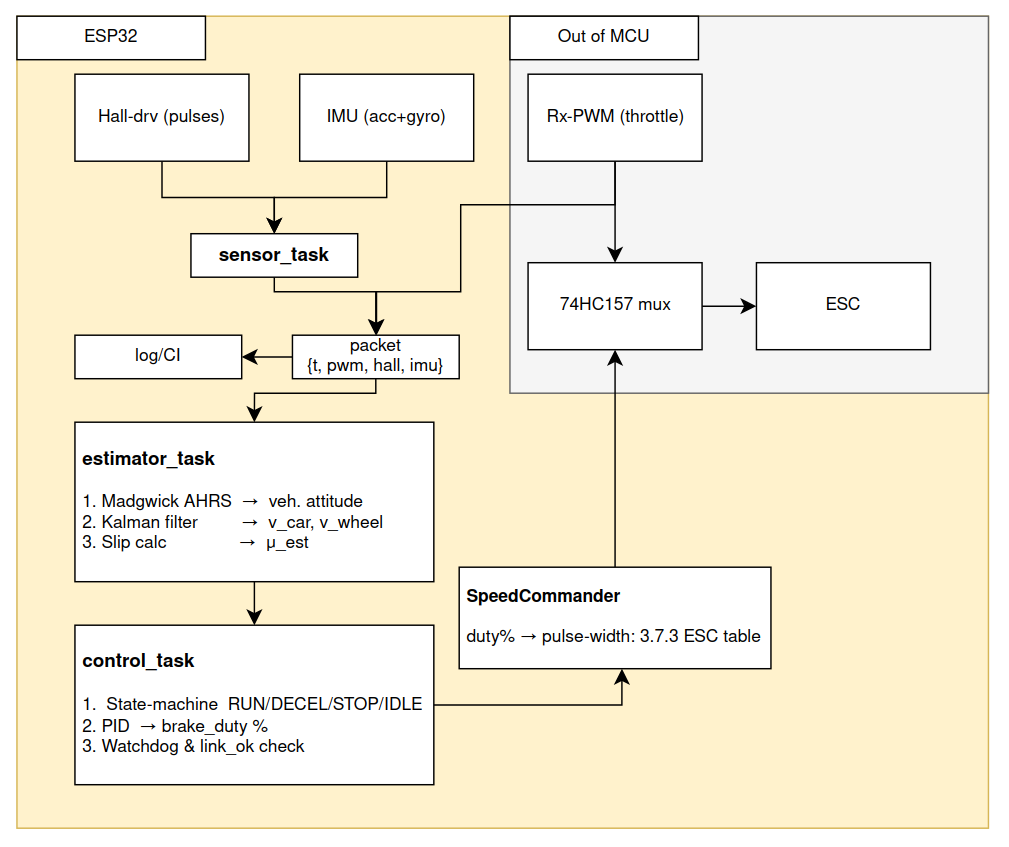
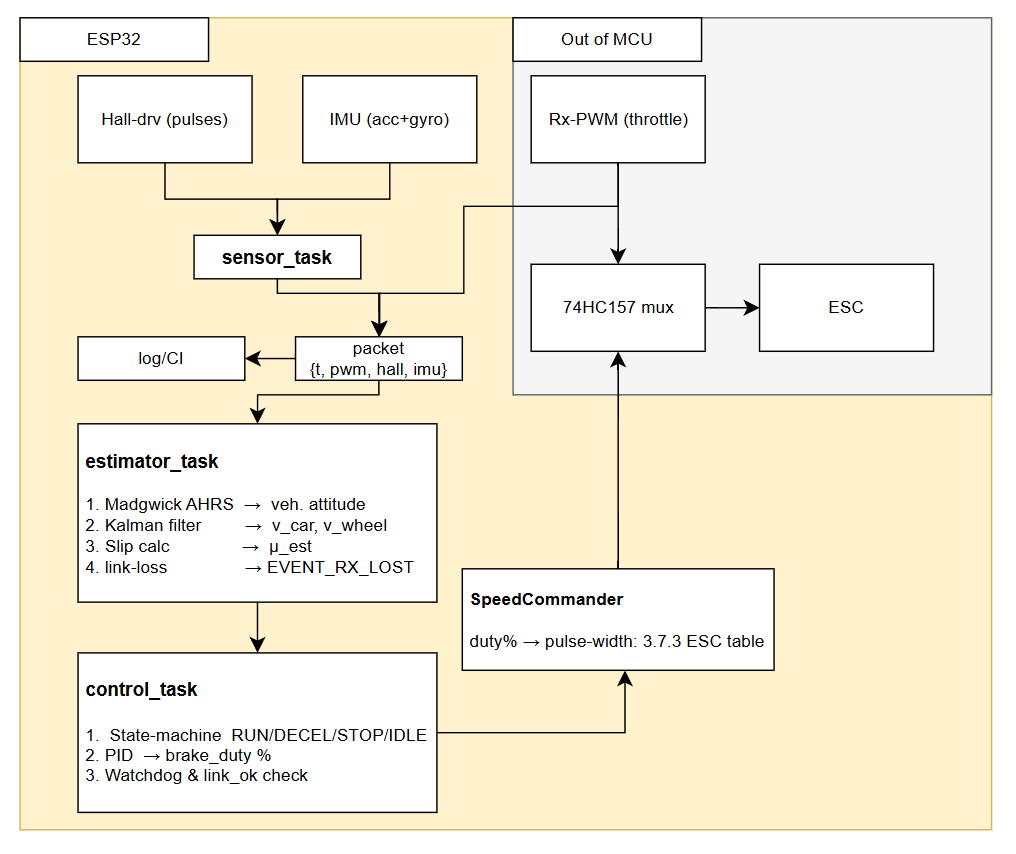
Fixed English

diff --git a/learning journey/Sys-Eng_part_1.md b/learning journey/Sys-Eng_part_1.md
@@ -5,15 +5,15 @@ date: "22-05-2025"
 
 # Practice Project for Systems Engineering - Part 1
 
-> **Mission (draft)** – *Enable a 1/14-scale WLtoys 144001 to stop safely and stream FPV with < 120 ms latency, using hobby-grade parts and a sub-\$60 electronics stack.*
-
-Imagine you’re at your local RC-club race. Your RC buggy rockets down the straight and **snap**, the radio link dies.  
+Imagine you’re at your local RC club race. Your RC buggy rockets down the straight and **snap**, the radio link dies.  
 No brakes, no hope. Or you’re threading hair-pins, but the video feed lags so badly you might as well be driving blindfolded.
 
-That nightmare is the frustration this projects sets out to erase.  
+That nightmare is the frustration this project sets out to erase.
+>*“I want my WLtoys buggy to brake by itself if the radio dies,and I want live video that isn’t a slideshow—all for pocket money.”* 
 This post captures the **front-end thinking**, mission framing, requirements, trade studies, and a first-cut architecture, *before a single line of firmware is written*. 
 
-DISCLAIMER: I haven't done extensive testing for the hardware pieces includes in the project. Since this is an exercise, I "trusted" gpt o3 with the estimates for the latencies and such. Were I plannig to carry on with this project. A whole verification and validation process would need to be done for those parts.
+> DISCLAIMER: I haven't done extensive testing for the hardware pieces included in the project. Since this is an exercise, I "trusted" GPT o3 with the estimates for the latencies and such. If I were planning to carry on with this project, a whole verification and validation process would need to be done for those parts.
+
 
 ---
 
@@ -21,7 +21,7 @@ DISCLAIMER: I haven't done extensive testing for the hardware pieces includes in
 
 > **Why this section exists** We open with a crystal-clear finish line. Numbers first; the figures anchor every future argument.
 
-**TARGET PERFORMANCE - *Not Yet Achieved***  
+**TARGET PERFORMANCE** 
 
 * Braking 30 km h⁻¹ → 0 in ≤ 1.2 m  
 * 30 fps FPV with ≤ 120 ms glass-to-glass latency  
@@ -33,7 +33,7 @@ Whenever we debate a design choice, we drag it back to this bullet list and ask:
 
 ---
 
-## 2  From Idea to One-Sentence Mission  
+## 2  From Idea to Mission Definition
 
 Before solder smoke and Git commits, systems engineering forces us to tame the foggy idea.  
 We interrogate the concept with three questions: **who hurts, how do they hurt, what single outcome removes the pain?**
@@ -44,8 +44,15 @@ We interrogate the concept with three questions: **who hurts, how do they hurt, 
 | **Need extraction**      | What hurts?  | Long braking, risk of runaway, laggy or dropped FPV.       |
 | **Mission wording**      | Outcome?     | “Stop safely and stream low-latency video with hobby parts.”|
 
-The table may look trivial, but it took three sticky-note sessions to collapse sprawling wish-lists into a **single declarative sentence**.  
-That sentence now acts as a gatekeeper: any feature that cannot prove it helps *stop* or *stream* is postponed or killed.
+The table may look trivial, but it took three sticky-note sessions to collapse sprawling wish-lists into defined mission points with a  **single declarative sentence**.
+
+>**Mission M.1 — Braking Safety**  
+*Bring the buggy from 30 km h⁻¹ to a full stop in ≤ 1.2 m, or within 100 ms of radio loss, without wheel lock-up.*  
+
+>**Mission M.2 — Low-Latency Situational Awareness**  
+*Provide a forward-facing FPV stream with ≤ 120 ms glass-to-glass latency, using hobby-grade parts and keeping the extra electronics under $ 60.*  
+
+Those two missions become the filters for every requirement that follows.
 
 ---
 
@@ -63,8 +70,8 @@ Stakeholder Needs  →  System Req  →  High-Level Design  →  Detailed Design
 
 ```
 
-*Left side*: we slide **downwards**, refining fuzzy pains (long braking, laggy FPV) into the SMART “shall” statements you’ll meet in Section 3, then into the architecture snapshot of Section 5.  
-*Right side*: we climb **upwards**, using the Verification Matrix (Section 7) to prove—unit by unit, then subsystem by subsystem—that the real buggy matches those early promises. 
+*Left side* → we slide **downwards**, refining fuzzy pains (long braking, laggy FPV) into the SMART “shall” statements you’ll meet in Section 3, then into the architecture snapshot of Section 5.  
+*Right side* → we climb **upwards**, using the Verification Matrix (Section 7) to prove—unit by unit, then subsystem by subsystem—that the real buggy matches those early promises. 
 
 | V-Step                   | This-post Artefact                         |
 |--------------------------|-------------------------------------------|
@@ -86,8 +93,9 @@ That symmetry is the mental model you’ll spot in every later decision.
 > **How this table was born** We ran a ruthless word-workout: every “should” became a “shall”, every vague adjective gained a number, every number gained a **kitchen-table test**.
 
 | ID   | “Shall” Statement (measurable)                                            | Planned Verification            |
-|------|---------------------------------------------------------------------------|---------------------------------|
-| **FR-1** | Detect Rx PWM loss > 120 ms **and** drive ESC to full brake ≤ 100 ms. | Logic-analyser script.          |
+|---------|---------------------------------------------------------------------------|---------------------------------|
+| **FR-1a** | Detect Rx PWM loss > 120 ms | Logic-analyser script.          |
+| **FR-1b** | Drive the ESC to a ≥ 100 % brake pulse within ≤ 100 ms of FR-1a firing. | Logic-analyser + scope.          |
 | **FR-2** | Rear-wheel ABS reduces 30 km h⁻¹ stop distance to **≤ 1.2 m**.        | Tape-measure & high-speed cam.  |
 | **FR-3** | Analogue FPV latency **≤ 20 ms** (95 %-ile).                          | IR-LED scope rig.               |
 | **FR-4** | MJPEG Wi-Fi stream ≥ 30 fps, latency **≤ 120 ms**.                    | LED-flash latency rig.          |
@@ -132,7 +140,7 @@ Notice how latency and cost killed several shinier options.
 
 Reading the diagram:
   1. User Tx → 2.4 GHz Rx The hand-held transmitter delivers throttle/brake PWM. The 74HC157 mux defaults to this lane if the ESP32 watchdog stops toggling.
-  If that link goes silent for more than 120 ms, FR-1’s failsafe slams the brakes.
+  If that link goes silent for more than 120 ms, FR-1a’s failsafe slams the brakes.
   2. Sensing ingests both vehicle data (wheel Hall count, IMU) and the human command from the Rx, time-stamping everything at 100 Hz.
   3. Estimation fuses sensor cues, computes slip, and forwards a clean state vector to Control.
   4. Control blends the user’s throttle intent with ABS logic and watchdogs; the output is a shaped PWM duty that Actuation feeds to the ESC via the mux’s second lane.
@@ -176,7 +184,8 @@ Take-away: the system tolerates Wi-Fi jitter because the *race-critical* feed is
 
 | Req  | Tool             | Pass Criterion     |
 |------|------------------|--------------------|
-| FR-1 | Logic-analyser   | ≤ 100 ms           |
+| FR-1a | Logic-analyser   | ≤ 120 ms gap          |
+| FR-1b | Logic-analyser   | ≤ 100 ms to 1.30 ms pulse           |
 | FR-2 | High-speed video | ≤ 1.2 m            |
 | FR-3 | IR scope rig     | ≤ 20 ms (95 %)     |
 | FR-4 | LED latency rig  | ≤ 120 ms           |
@@ -189,7 +198,7 @@ Spend ten minutes sketching each rig now; save ten days of “why is it slow?”
 
 ### Ready for the Right-Hand Side?
 
-Everything above cements the *why* and the *what* of SmartDrive-XR.
+Everything above cements the *why* and the *what* of this project.
 But diagrams don’t stop runaway cars—firmware, task graphs, and PCB traces do.
 In **Part 2** we pivot from “paper promises” to “design you can compile”:
 

diff --git a/learning journey/Sys-Eng_part_2.md b/learning journey/Sys-Eng_part_2.md
@@ -24,7 +24,8 @@ Part 2 begins the climb up the right-hand side. Here the abstractions acquire vo
 By the end of this part you’ll have the full bill-of-materials, a layered codebase skeleton, and concrete verification hooks—all ready for the soldering iron. If Part 1 was the blueprint, Part 2 is the build manual. Let’s zoom in.
 
 
-DISCLAIMER: I haven't done extensive testing for the hardware pieces includes in the project. Since this is an exercise, I "trusted" gpt o3 with the estimates for the latencies and such. Were I plannig to carry on with this project. A whole verification and validation process would need to be done for those parts.
+DISCLAIMER: I haven't done extensive testing for the hardware pieces included in the project. Since this is an exercise, I "trusted" GPT o3 with the estimates for the latencies and such. If I were planning to carry on with this project, a whole verification and validation process would need to be done for those parts.
+
 
 ---
 
@@ -45,11 +46,12 @@ DISCLAIMER: I haven't done extensive testing for the hardware pieces includes in
 
 > In classical control parlance this is a *sense → estimate → decide → act* pipeline. The feedback loop closes every 10 ms, giving the controller five fresh opportunities to intervene during the 25 ms it takes the car to travel 20 cm at 30 km h⁻¹.
 
+
 | Block      | Prime SMART reqs |
 | ---------- | ---------------- |
 | Sensing    | FR-4             |
-| Estimation | FR-2             |
-| Control    | FR-1, FR-2       |
+| Estimation | FR-1a, FR-2             |
+| Control    | FR-1b, FR-2       |
 | Telemetry  | FR-3, FR-4       |
 
 Anything that cannot be traced forward to a requirement,or backward to a verification step,gets chopped as scope-creep.
@@ -57,7 +59,7 @@ Anything that cannot be traced forward to a requirement,or backward to a verific
 ---
 
 ## 2 Physical Architecture - *What the System Is*
-As with other part of the series, selecting certain parts as the MCE, ESC, Servos and so on, need to be carefully considered. Here, I'm "trusting" the LLM (GPT o3) to select for me, but if I were to build the system, I would refine this part in detail.
+As with other parts of the series, selecting certain parts, such as the MCU, ESC, Servos, etc., must be carefully considered. Here, I'm "trusting" the LLM (GPT o3) to select for me, but if I were to build the system, I would refine this part in detail.
 
 | Sub-assembly          | Main parts & interfaces                                                                     | Power domain |
 |-----------------------|---------------------------------------------------------------------------------------------|--------------|
@@ -141,8 +143,8 @@ As with other part of the series, selecting certain parts as the MCE, ESC, Servo
 | Task (core)          | Period | Stack | Prio | Role                                               |
 |----------------------|--------|-------|------|----------------------------------------------------|
 | `sensor_task` (1)    | 10 ms  | 4 kB  | 15   | IMU + Hall → `STATE_RAW`                           |
-| `estimator_task`     | 10 ms  | 6 kB  | 18   | Madgwick+Kalman → `VehicleState`                   |
-| `control_task`       | 10 ms  | 4 kB  | 20   | ABS PID → `BrakeCommand`                           |
+| `estimator_task`     | 10 ms  | 6 kB  | 18   |Madgwick + Kalman + link-loss timer → `VehicleState`                  |
+| `control_task`       | 10 ms  | 4 kB  | 20   | ABS PID (+ FailsafeManager) → `BrakeCommand`                           |
 | `mux_feed_task` (1)  | 2 ms   | 1 kB  | 22   | Toggle GPIO watchdog for 74HC157                   |
 | `actuator_task`      | 10 ms  | 3 kB  | 21   | ESC PWM, safety heartbeat check                    |
 | `cam_task` (0)       | 33 ms  | 8 kB  | 10   | DMA frame → PSRAM                                  |
@@ -281,7 +283,7 @@ Firmware constants:
 #define ESC_BRAKE_MAX_US 1300   // never go lower
 ```
 
-`SpeedCommander` linearly interpolates between those limits; the **pwm\_mux\_driver** toggles its GPIO at 2 kHz. If the MCU crashes, the RC filter on the mux select pin discharges in ≈ 25 ms and hardware flips back to the radio lane—meeting FR-1 even with dead firmware.
+`SpeedCommander` linearly interpolates between those limits; the **pwm\_mux\_driver** toggles its GPIO at 2 kHz. If the MCU crashes, the RC filter on the mux select pin discharges in ≈ 25 ms and hardware flips back to the radio lane—meeting FR-1b even with dead firmware.
 
 ---
 
@@ -298,7 +300,7 @@ Firmware constants:
 
 | Hook                             | What it proves                                        |
 | -------------------------------- | ----------------------------------------------------- |
-| **Logic-analyser** on mux output | Pulse drops to 1.30 ms ≤ 100 ms after Rx loss (FR-1). |
+| **Logic-analyser** on mux output | Pulse drops to 1.30 ms ≤ 100 ms after Rx loss (FR-1b).|
 | **High-speed video** + tape      | 30 km h⁻¹ → 0 in ≤ 1.2 m (FR-2).                      |
 | **Replay harness**               | Deterministic stop distance on log playback.          |
 
@@ -326,16 +328,16 @@ So you get laboratory-friendly Wi-Fi plus race-worthy analogue,each with its own
 
 ## 4  End-to-End Traceability - Kitchen-Table Proof
 
-| Req  | Functional blk | Physical element        | Software module           | Verification hook                |
-| ---- | -------------- | ----------------------- | ------------------------- | -------------------------------- |
-| FR-1 | Control        | **74HC157 mux + QuicRun ESC**            | `control_task`, `mux_feed_task`            | Logic-analyser script + watchdog scope           |
-| FR-2 | Control/Sense  | Hall + IMU              | `estimator_task`, `PID`   | High-speed video + pandas script |
-| FR-3 | Telemetry      | OV2640 + Wi-Fi streamer | `cam_task`, `stream_task` | LED latency rig                  |
-| FR-4 | Telemetry      | SD card                 | `csv_logger`              | pandas integrity check           |
-| FR-5 | Telemetry      | **WildFire VTx**        | `fpv_monitor`, `osd_task` | IR scope rig (latency)           |
-| CO-1 | BOM            | All parts               | `tools/bom.xlsx`          | CI budget line                   |
+| Req       | Functional blk  | Physical element(s)                   | Software module(s)                 | Verification hook                                   |
+| --------- | --------------- | ------------------------------------- | ---------------------------------- | --------------------------------------------------- |
+| **FR-1a** | **Estimation**  | ELRS Rx PWM line <br> + timer counter | `estimator_task` (`LinkLossTimer`) | Logic-analyser: > 120 ms gap raises `EVENT_RX_LOST` |
+| **FR-1b** | **Control**     | 74HC157 mux (sel GPIO) + QuicRun ESC  | `control_task`, `mux_feed_task`    | Scope: pulse hits 1.30 ms ≤ 100 ms after FR-1a      |
+| **FR-2**  | Control / Sense | Hall sensor + BMI270 IMU              | `estimator_task`, `PID`            | Hi-speed video + pandas stop-distance script        |
+| **FR-3**  | Telemetry       | OV2640 cam + ESP32 Wi-Fi              | `cam_task`, `stream_task`          | LED-flash latency rig                               |
+| **FR-4**  | Telemetry       | SD-card logger                        | `csv_logger`                       | pandas integrity check                              |
+| **FR-5**  | Telemetry       | WildFire Nano VTx                     | `fpv_monitor`, `osd_task`          | IR-scope: analogue latency                          |
+| **CO-1**  | BOM             | All parts                             | `tools/bom.xlsx`                   | CI budget line                                      |
 
----
 
 ## 5  Risks & Mitigations Snapshot
 

diff --git a/learning journey/Sys-Eng_part_0.md b/learning journey/Sys-Eng_part_0.md
@@ -6,7 +6,9 @@ date: "22-05-2025"
 
 *A Prelude to the Mini-Series*
 
-The pages that follow are not a build log, at least not yet.  They are, first and foremost, a structured exercise in **applied systems engineering**.  Fresh from an intensive AIAA course on space-grade SE practice, I wanted a sandbox that was small enough to tackle after work yet rich enough to showcase every rung of the “V”.  A 1/14-scale WLtoys buggy, a \$10 ESP32 module, and the perennial headaches of RC racing (run-away cars, video lag) fit that bill perfectly.
+The pages that follow are not a build log, at least not yet.  They are, first and foremost, a structured exercise in **applied systems engineering**.  Fresh from an intensive AIAA course on space-grade SE practice, I wanted a sandbox that was small enough to tackle after work yet rich enough to showcase every rung of the [“V” model](https://en.wikipedia.org/wiki/V-model).
+
+A 1/14-scale WLtoys buggy, a \$10 ESP32 module, and the perennial headaches of RC racing (run-away cars, video lag) fit that bill perfectly.
 
 <figure style="text-align:center;">
   <!-- direct link to the raw file on Wikimedia's upload server -->
@@ -14,18 +16,20 @@ The pages that follow are not a build log, at least not yet.  They are, first an
        alt="V-model illustrating decomposition on the left and verification on the right"
        style="max-width:100%;height:auto;display:block;margin:0 auto;">
   <figcaption style="font-style:italic;">
-    The V-model that underpins SmartDrive-XR’s methodology.  
+    The V-model that underpins this system methodology.  
     (Public-domain image, U.S. Government source via Wikimedia Commons.)
   </figcaption>
 </figure>
 <br>
 
 ### What the V-model actually shows
-The V-model is a visual shorthand for disciplined, top-down system development followed by bottom-up proof. On the left-hand leg you start with fuzzy stakeholder pains, sharpen them into measurable system requirements, and then decompose those requirements through progressively finer architectural layers until you reach code or hardware drawings. The bottom point (unit implementation) is where abstraction is lowest and component isolation is highest. The right-hand leg then climbs back upward, but in reverse order: unit tests prove each block, component integration proves every interface, and finally system‐level validation proves that the finished artefact solves the original pain.
+The V-model is a visual shorthand for disciplined, top-down system development followed by bottom-up proof. On the left-hand leg you start with fuzzy stakeholder pains, sharpen them into measurable system requirements, and then decompose those requirements through progressively finer architectural layers until you reach code or hardware drawings. 
+
+The bottom point (unit implementation) is where abstraction is lowest and component isolation is highest. The right-hand leg then climbs back upward, but in reverse order: unit tests prove each block, component integration proves every interface, and finally system‐level validation proves that the finished artefact solves the original pain.
 
 Two principles make the diagram more than just a pretty shape:
-  1. Bidirectional traceability – every artefact on the left must have a matching verification artefact on the right.
-  2. ly test planning – you design test hooks at the same time you design functions, not as an after-thought.
+  1. Bidirectional traceability - every artefact on the left must have a matching verification artefact on the right.
+  2. Early test planning - you design test hooks at the same time you design functions, not as an after-thought.
 
 Because of those principles, teams can localise defects, predict schedules, and justify design trade-offs with cold data instead of hope.
 
@@ -33,7 +37,7 @@ Because of those principles, teams can localise defects, predict schedules, and 
 
 **Part 2** pivots to design: a tri-view architecture (functional, physical, software) that shows, line-by-line, how each requirement is realised and how every design choice earns its keep.  You will see control loops mapped to tasks, latency budgets split across hops, and even a “budget” analogue FPV link added when risk analysis exposed Wi-Fi’s soft underbelly.  In short, **Part 2 is the climb up the *right-hand* side of the V, still on paper but already instrumented for proof**.
 
-Will there be a Part 3 with hardware photos and skid-marks on the parking lot?  Not sooo, I make no promise.  Another project already competes for bench time. For now, treat this series as a reference walk-through: a compact, end-to-end example of modern systems-engineering discipline that you can mirror, critique, or extend in your own hobby and professional work.
+Will there be a Part 3 with hardware photos and skid-marks on the parking lot?  Not soon, I make no promise.  Another project already competes for bench time. For now, treat this series as a reference walk-through.
 
 *© 2025 Victor Retamal - Project Notes.*
 

diff --git a/learning journey/introduction.md b/learning journey/introduction.md
@@ -1,6 +1,7 @@
 ---
 title: "Intro: Diving Into Open-Source Courses"
 date: "27-03-2025"
+sort: 1
 ---
 # Intro: Diving Into Open-Source Courses
 
@@ -14,7 +15,7 @@ I'm not officially enrolled in any university program at the moment, but I truly
 
 - **[CMU 16-745: Optimal Control and Reinforcement Learning](https://optimalcontrol.ri.cmu.edu/)**: Digging into the latest in reinforcement learning, figuring out how intelligent systems make smart decisions in complex situations.
 
-- **[Applied Space System Engineering](https://aiaa.mycrowdwisdom.com/diweb/catalog/item?id=17366964)**: Soon, I'll start this course as part of my work-related learning journey. Hopefully, I will discover how a system engineering is done in such a demanding industry as space industry. Disclaimer, this is not open source, but still a cool/practical course to take.
+- **[Applied Space System Engineering](https://aiaa.mycrowdwisdom.com/diweb/catalog/item?id=17366964)**: I'll soon start this course as part of my work-related learning journey. Hopefully, I will discover how system engineering is done in such a demanding industry as the space industry. Disclaimer: This is not open source, but it is still a cool/practical course to take.
 
 
 I'll be sharing interesting projects, insights, and even challenges I run into. No strict posting schedule here—just whenever I stumble upon something interesting worth sharing!
